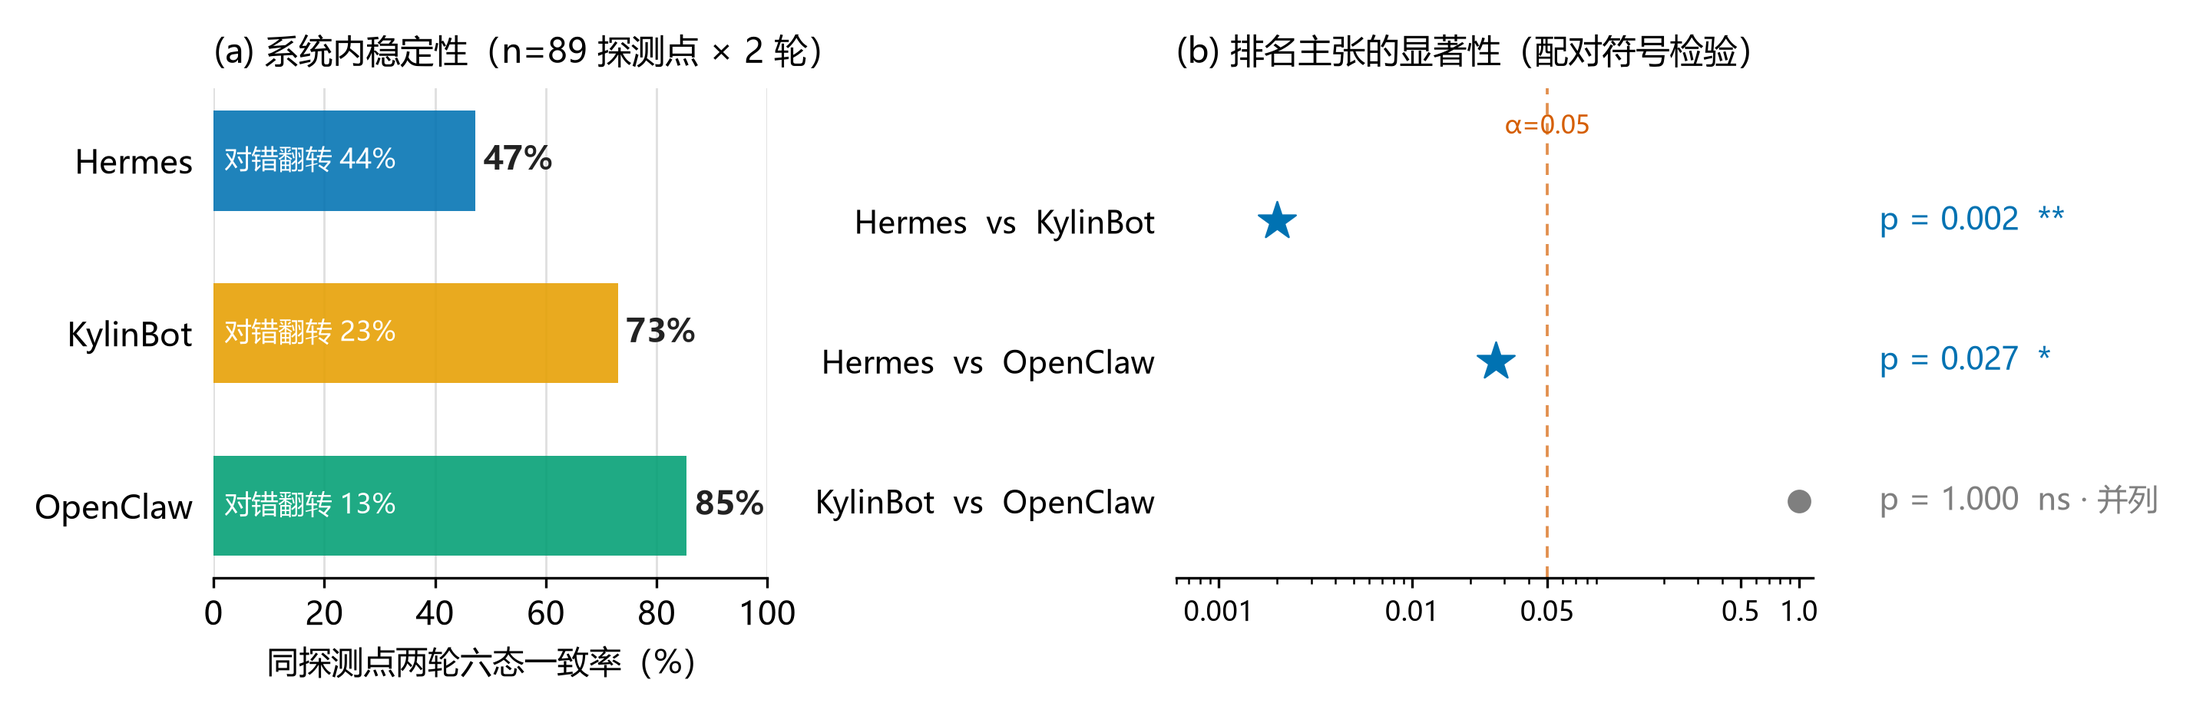
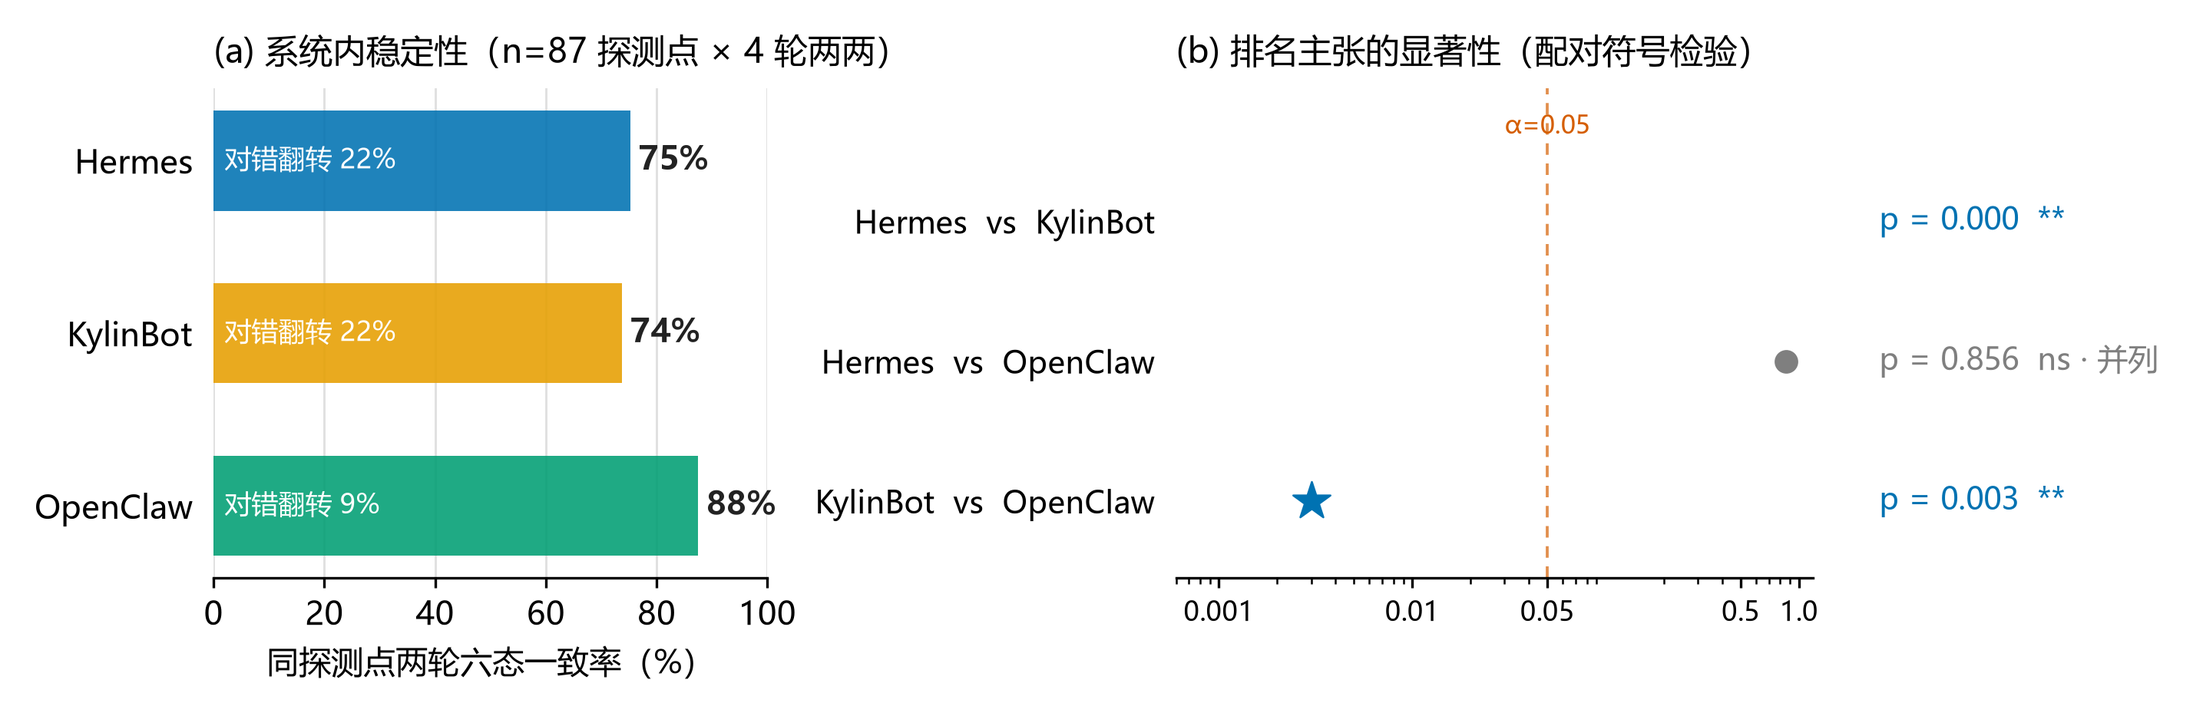
feat(终榜v3): r3/r4 扩轮 n=4 + chains 并入口径
- r3/r4 马拉松 12 场（三家 × r3/r4 × full+chains，与 10-10 六场同栈
  dual 直判）；hermes-r3-full 判卷一次 DNS 挂死，事后从封存证据补判留痕
- full n=4：hermes 74.6±2.8 ≈ openclaw 72.5±4.9 > kylinbot 58.5±6.8；
  两对配对符号检验转显著（p<0.001 / 0.003），头部 p=0.856 并列
  （功效：分开头部需 ≈36 轮）
- chains n=2 附表并入：40.0/40.0/25.0，hermes/openclaw 两轮逐题零翻转
- stats_uncertainty：四轮两两 6 对一致率、F 检验 d2:3→9（闭式解仍适用）、
  chains 子口径入口 [full|chains]、GBK 控制台 reconfigure 防 ⚠ 崩溃
- make_readme_figures：agg 源切 _agg-*-n4、图 2 n=4 数字、图 4 十二场、
  图 6 n=4 阈值与自适应 x 轴、打印清单补 radar-final-dual
- README 终榜/EN 摘要/口径速览、dataset-card §9、CHANGELOG 同步；
  7 图全部重画（零 LLM 可复现）

201 passed · ruff clean

diff --git a/scripts/stats_uncertainty.py b/scripts/stats_uncertainty.py
@@ -7,9 +7,9 @@
   ④ 判卷口径差：dual vs scripted 同证据分差（仪器方差上界之一）
   ⑤ 功效声明：按观测方差，把两台智能体分开需要几轮
 
-用法: uv run python scripts/stats_uncertainty.py [runs 根目录]
-输入: 三家 × 2 轮 dual 重判 run（verdicts.jsonl）+ scripted 备份
-      （verdicts.scripted.jsonl，缺了该表跳过）
+用法: uv run python scripts/stats_uncertainty.py [runs 根目录] [full|chains]
+输入: 三家 × 4 轮（full 口径）或 × 2 轮（chains 口径）dual 直判 run
+      （verdicts.jsonl）+ scripted 备份（verdicts.scripted.jsonl，缺了该表跳过）
 """
 
 from __future__ import annotations
@@ -19,11 +19,22 @@ import math
 import sys
 from pathlib import Path
 
-AGENTS = {
-    "hermes": ["20261010-073953-hermes", "20261010-135112-hermes"],
-    "kylinbot": ["20261010-163950-kylinbot", "20261010-181612-kylinbot"],
-    "openclaw": ["20261010-200117-openclaw", "20261010-215351-openclaw"],
+# full-45 口径四轮（10-10 两轮 + 10-11/12 r3/r4 两轮）；chains 口径两轮（r3/r4）。
+# AGENTS 别名保持指向 full——make_readme_figures 经 import 复用本表出图。
+FULL_AGENTS = {
+    "hermes": ["20261010-073953-hermes", "20261010-135112-hermes",
+               "20261011-073455-hermes", "20261011-103806-hermes"],
+    "kylinbot": ["20261010-163950-kylinbot", "20261010-181612-kylinbot",
+                 "20261011-131723-kylinbot", "20261011-145803-kylinbot"],
+    "openclaw": ["20261010-200117-openclaw", "20261010-215351-openclaw",
+                 "20261011-164757-openclaw", "20261011-183642-openclaw"],
 }
+CHAINS_AGENTS = {
+    "hermes": ["20261011-102221-hermes", "20261011-130417-hermes"],
+    "kylinbot": ["20261011-144945-kylinbot", "20261011-164015-kylinbot"],
+    "openclaw": ["20261011-182539-openclaw", "20261011-201110-openclaw"],
+}
+AGENTS = FULL_AGENTS
 # 维度族前缀（探测点 ID 的 family 段即 capability 族）
 FAMILY_CAP = {
     "persist": "persist", "recall": "recall", "update": "dynamic_update",
@@ -60,9 +71,9 @@ def sign_p(n: int, k: int) -> float:
 
 
 def f_sf(x: float, d1: int = 2, d2: int = 3) -> float:
-    """F(d1,d2) 上尾概率——区分度比值的显著性参考。本设计固定 3 家×2 轮，
-    df=(2,3)；d1=2 时正则化不完全 beta 有闭式解 (d2/(d1·x+d2))^(d2/2)
-    （对照 α=0.05 临界值 9.55、α=0.10 为 5.46）。换组数/轮数需改 beta 函数。"""
+    """F(d1,d2) 上尾概率——区分度比值的显著性参考。d1=2 时正则化不完全
+    beta 有闭式解 (d2/(d1·x+d2))^(d2/2)，对任意 d2 成立（对照 α=0.05 临界：
+    d2=3 → 9.55，d2=9 → 4.26）。调用方按轮数算 d2=Σ(n_i−1)。"""
     if d1 != 2:
         raise NotImplementedError("闭式解仅对 d1=2 成立")
     return (d2 / (d1 * x + d2)) ** (d2 / 2)
@@ -75,34 +86,50 @@ def overall(vs: dict[str, str]) -> float | None:
 
 
 def main() -> int:
+    # GBK 控制台跑批也别崩：不可编码字符降级为 ?（UTF-8 终端不受影响）
+    if hasattr(sys.stdout, "reconfigure"):
+        sys.stdout.reconfigure(errors="replace")
     root = Path(sys.argv[1] if len(sys.argv) > 1 else "runs")
-    runs = {a: [root / r for r in rs] for a, rs in AGENTS.items()}
+    mode = sys.argv[2] if len(sys.argv) > 2 else "full"
+    table = CHAINS_AGENTS if mode == "chains" else FULL_AGENTS
+    runs = {a: [root / r for r in rs] for a, rs in table.items()}
     missing = [str(p) for ps in runs.values() for p in ps if not (p / "verdicts.jsonl").exists()]
     if missing:
         print(f"缺 run: {missing}")
         return 2
     vd = {a: [load_verdicts(p / "verdicts.jsonl") for p in ps] for a, ps in runs.items()}
 
-    # ① 系统内随机性：同一探测点两轮一致率（六态严格一致 + 对错翻转计数）
-    # （自比无方向可言，不报 p；翻转数就是"问两遍答案变不变"的直接读数）
-    print("== ① 系统内稳定性（同探测点两轮，n=89）==")
-    for a, (r1, r2) in vd.items():
-        common = set(r1) & set(r2)
-        exact = sum(1 for p in common if r1[p] == r2[p])
-        b = [(binary(r1[p]), binary(r2[p])) for p in common]
-        pairs = [xy for xy in b if None not in xy]
-        n_flip = sum(1 for x, y in pairs if x != y)
-        print(f"  {a:<9} 六态一致 {exact}/{len(common)} = {exact/len(common):.1%}　"
-              f"对错翻转 {n_flip}/{len(pairs)}（{n_flip/len(pairs):.0%} 的题两轮答案对错变了）")
+    # ① 系统内随机性：同一探测点轮间两两一致率（六态严格一致 + 对错翻转）
+    # （自比无方向可言，不报 p；翻转率就是"问两遍答案变不变"的直接读数。
+    #   n=2 一对即全量；n≥3 报两两组合的 min–max 与均值）
+    n_r = len(next(iter(vd.values())))
+    n_pair = n_r * (n_r - 1) // 2
+    print(f"== ① 系统内稳定性（同探测点轮间两两，{n_r} 轮 {n_pair} 对）==")
+    for a, rs in vd.items():
+        common = set.intersection(*(set(r) for r in rs))
+        agrees: list[float] = []
+        flips: list[float] = []
+        for i in range(n_r):
+            for j in range(i + 1, n_r):
+                r1, r2 = rs[i], rs[j]
+                exact = sum(1 for p in common if r1[p] == r2[p])
+                b = [xy for xy in ((binary(r1[p]), binary(r2[p])) for p in common)
+                     if None not in xy]
+                agrees.append(exact / len(common))
+                flips.append(sum(1 for x, y in b if x != y) / len(b))
+        print(f"  {a:<9} 六态一致 {min(agrees):.1%}–{max(agrees):.1%}"
+              f"（均值 {sum(agrees) / len(agrees):.1%}）　"
+              f"对错翻转 {min(flips):.0%}–{max(flips):.0%}"
+              f"（均值 {sum(flips) / len(flips):.0%}）")
 
-    # ② 成对符号检验：合并两轮，方向票 = 一家对该题对、另一家错
-    print("== ② 排名检验（两轮合并，方向票进检验）==")
+    # ② 成对符号检验：各轮同位配对合并，方向票 = 一家对该题对、另一家错
+    print("== ② 排名检验（各轮合并，方向票进检验）==")
     names = list(vd)
     for i in range(len(names)):
         for j in range(i + 1, len(names)):
             a, b = names[i], names[j]
             to_b = to_a = 0
-            for ra, rb in zip(vd[a], vd[b], strict=True):   # 两轮，家内轮数一致
+            for ra, rb in zip(vd[a], vd[b], strict=True):   # 逐轮同位配对，家内轮数一致
                 for p in set(ra) & set(rb):
                     x, y = binary(ra[p]), binary(rb[p])
                     if x is None or y is None or x == y:
@@ -118,7 +145,7 @@ def main() -> int:
             print(f"  {a} vs {b}: 方向票 {to_a}+{to_b}={n}，p={p:.3f}，{verdict}")
 
     # ③ 维度区分度：组间方差（智能体均值间）/ 组内方差（同智能体轮间）
-    print("== ③ 维度区分度（组间/组内方差比，描述性，n=2/组）==")
+    print(f"== ③ 维度区分度（组间/组内方差比，描述性，n={n_r}/组）==")
     for fam, cap in FAMILY_CAP.items():
         per_agent: dict[str, list[float]] = {}
         for a in vd:
@@ -139,24 +166,25 @@ def main() -> int:
         within = sum(sum((x - sum(v) / len(v)) ** 2 for x in v) / (len(v) - 1)
                      for v in per_agent.values()) / len(per_agent)
         ratio = between / within if within > 0 else float("inf")
+        d2 = sum(len(v) - 1 for v in per_agent.values())
         print(f"  {CAP_ZH[cap]:<5}（{fam:<11}） 均值 "
               + " ".join(f"{a}:{m:.0%}" for a, m in zip(per_agent, means, strict=True))
-              + f"　组间/组内 = {ratio:.1f}（F 检验 p={f_sf(ratio):.3f}）"
+              + f"　组间/组内 = {ratio:.1f}（F(2,{d2}) p={f_sf(ratio, d2=d2):.3f}）"
               + ("　⚠ 不区分" if ratio < 1 else ""))
 
     # ④ 判卷口径差 + 环境噪声
     print("== ④ 判卷口径差（同证据 dual vs scripted）与环境噪声（invalid 率）==")
     for _a, ps in runs.items():
         for p in ps:
-            d_over = overall(load_verdicts(p / "verdicts.jsonl"))
+            cur = load_verdicts(p / "verdicts.jsonl")
+            d_over = overall(cur)
             line = f"  {p.name:<28} dual {d_over:.1%}"
             s_path = p / "verdicts.scripted.jsonl"
             if s_path.exists():
                 s_over = overall(load_verdicts(s_path))
                 line += f"　scripted {s_over:.1%}（口径差 {(d_over - s_over) * 100:+.1f} 分）"
-            n_inv = sum(1 for v in load_verdicts(p / "verdicts.jsonl").values()
-                        if v == "invalid_run")
-            line += f"　invalid {n_inv}/89"
+            n_inv = sum(1 for v in cur.values() if v == "invalid_run")
+            line += f"　invalid {n_inv}/{len(cur)}"
             print(line)
 
     # ⑤ 功效声明：检测两台差距 Δ（α=0.05、power 80% → z≈2.8）所需轮数

diff --git a/scripts/make_readme_figures.py b/scripts/make_readme_figures.py
@@ -72,13 +72,13 @@ def build_caliber(mod) -> tuple[str, str]:
                f"（2026-{date_str}）")
     return ver_str, caliber
 
-# stats_uncertainty.py 2026-10-08 输出（同源可复算）
-AGREE = {"hermes": 47.2, "kylinbot": 73.0, "openclaw": 85.4}   # 六态一致率 %
-FLIP = {"hermes": 44, "kylinbot": 23, "openclaw": 13}          # 对错翻转 %
+# stats_uncertainty.py 2026-10-12 n=4 输出（同源可复算）
+AGREE = {"hermes": 75.3, "kylinbot": 73.8, "openclaw": 87.5}   # 六态一致率均值 %
+FLIP = {"hermes": 22, "kylinbot": 22, "openclaw": 9}           # 对错翻转均值 %
 PAIRS = [  # (对比, p, 显著?)
-    ("Hermes  vs  KylinBot", 0.002, True),
-    ("Hermes  vs  OpenClaw", 0.027, True),
-    ("KylinBot  vs  OpenClaw", 1.000, False),
+    ("Hermes  vs  KylinBot", 0.000, True),
+    ("Hermes  vs  OpenClaw", 0.856, False),
+    ("KylinBot  vs  OpenClaw", 0.003, True),
 ]
 
 
@@ -130,7 +130,7 @@ VERDICT_COLOR = {
 def load_caps() -> dict[str, dict[str, dict]]:
     out: dict[str, dict[str, dict]] = {}
     for a in AGENTS:
-        d = json.loads((RUNS / f"_agg-{a}-dual" / "aggregate.json")
+        d = json.loads((RUNS / f"_agg-{a}-n4" / "aggregate.json")
                        .read_text(encoding="utf-8"))
         out[a] = {c: d["capabilities"][c] for c in CAP_ORDER if c in d["capabilities"]}
     return out
@@ -138,7 +138,7 @@ def load_caps() -> dict[str, dict[str, dict]]:
 
 def fig1_six_dim_bars(caps: dict[str, dict[str, dict]], ver_str: str,
                       caliber: str) -> None:
-    """六维 mean±std 分组柱 + 各轮散点（n=2，散点=两轮实际值）。"""
+    """六维 mean±std 分组柱 + 各轮散点（n=4，白圈=四轮极值 min/max）。"""
     _setup_font()
     fig, ax = plt.subplots(figsize=(9.6, 4.0))
     dims = CAP_ORDER
@@ -157,7 +157,7 @@ def fig1_six_dim_bars(caps: dict[str, dict[str, dict]], ver_str: str,
                label=f"{ver_parts[a]}（{AGENT_LABEL[a]}）", zorder=2)
         ax.errorbar(pos, means, yerr=stds, fmt="none",
                     ecolor="#333333", elinewidth=1.1, capsize=2.5, zorder=4)
-        # 各轮实际值散点（n=2：min 与 max 即两轮）
+        # 各轮实际值散点（n=4：min/max 为四轮极值，均值棒 ±std）
         ax.scatter(pos, los, s=11, color="white", edgecolor=COLOR[a],
                    linewidth=0.9, zorder=5)
         ax.scatter(pos, his, s=11, color="white", edgecolor=COLOR[a],
@@ -199,7 +199,7 @@ def fig2_uncertainty() -> None:
     ax1.set_xlabel("同探测点两轮六态一致率（%）")
     ax1.xaxis.grid(True, color="0.88", linewidth=0.7, zorder=0)
     ax1.set_axisbelow(True)
-    ax1.set_title("(a) 系统内稳定性（n=89 探测点 × 2 轮）",
+    ax1.set_title("(a) 系统内稳定性（n=87 探测点 × 4 轮两两）",
                   fontsize=10.5, loc="left", pad=8)
     _publication(ax1)
     ax1.spines["left"].set_visible(False)
@@ -396,7 +396,7 @@ def fig3_pipeline_svg() -> None:
 
 
 def fig4_verdict_mix(mod, caliber: str) -> None:
-    """图 4：六态判定构成（六场 run 100% 堆积条）——"记错的样子"可视化。"""
+    """图 4：六态判定构成（十二场 run 100% 堆积条）——"记错的样子"可视化。"""
     from collections import Counter
 
     _setup_font()
@@ -407,7 +407,7 @@ def fig4_verdict_mix(mod, caliber: str) -> None:
             rows.append((f"{AGENT_LABEL[a]} r{i}", Counter(vs.values())))
     states = [k for k in VERDICT_ZH if any(c.get(k) for _, c in rows)]
 
-    fig, ax = plt.subplots(figsize=(9.6, 3.4))
+    fig, ax = plt.subplots(figsize=(9.6, 4.8))
     ys = np.arange(len(rows))[::-1]
     totals = np.array([sum(c.values()) for _, c in rows], dtype=float)
     left = np.zeros(len(rows))
@@ -505,9 +505,9 @@ def fig5_dual_vs_scripted(mod) -> None:
 
 
 def fig6_separation(mod) -> None:
-    """图 6：维度区分度棒棒糖（组间/组内方差比，n=2/组）。
+    """图 6：维度区分度棒棒糖（组间/组内方差比，n=4/组）。
 
-    比值 <1 = 两轮轮间方差盖过智能体间差异，该维在 n=2 下不构成区分；
+    比值 <1 = 轮间方差盖过智能体间差异，该维不构成区分；
     ≥1 才是"这个维真的在分开不同系统"。
     """
     _setup_font()
@@ -546,7 +546,7 @@ def fig6_separation(mod) -> None:
                 va="center", color=color)
     ax.axvline(1.0, color="#D55E00", linewidth=0.9, linestyle=(0, (4, 3)),
                alpha=0.8)
-    ax.text(1.0, len(rows) - 0.28, " n=2 可区分阈值", fontsize=8,
+    ax.text(1.0, len(rows) - 0.28, " n=4 可区分阈值", fontsize=8,
             color="#D55E00", va="bottom")
     ax.set_yticks(ys)
     ax.set_yticklabels([r[0] for r in rows], fontsize=9.5)
@@ -557,7 +557,7 @@ def fig6_separation(mod) -> None:
     ax.set_xlabel("维度区分度 = 组间方差（智能体间）/ 组内方差（同智能体轮间）")
     ax.xaxis.grid(True, color="0.9", linewidth=0.7, zorder=0)
     ax.set_axisbelow(True)
-    ax.set_title("哪些维在 n=2 下真的分开了系统（灰=尚不区分）",
+    ax.set_title("哪些维在 n=4 下真的分开了系统（灰=尚不区分）",
                  fontsize=10.5, loc="left", pad=8)
     _publication(ax)
     ax.spines["left"].set_visible(False)
@@ -574,7 +574,7 @@ def fig0_final_radar(ver_str: str, caliber: str) -> None:
 
     scores: dict[str, dict[str, float]] = {}
     for a in AGENTS:
-        d = json.loads((RUNS / f"_agg-{a}-dual" / "aggregate.json")
+        d = json.loads((RUNS / f"_agg-{a}-n4" / "aggregate.json")
                        .read_text(encoding="utf-8"))
         ver_parts = dict(zip(AGENTS, [v.strip() for v in ver_str.split("/")],
                               strict=True))
@@ -597,9 +597,9 @@ def main() -> int:
     fig4_verdict_mix(mod, caliber)
     fig5_dual_vs_scripted(mod)
     fig6_separation(mod)
-    for name in ["fig-six-dim.png", "fig-uncertainty.png", "pipeline-dark.svg",
-                 "fig-verdict-mix.png", "fig-dual-vs-scripted.png",
-                 "fig-separation.png"]:
+    for name in ["radar-final-dual.png", "fig-six-dim.png", "fig-uncertainty.png",
+                 "pipeline-dark.svg", "fig-verdict-mix.png",
+                 "fig-dual-vs-scripted.png", "fig-separation.png"]:
         p = OUT / name
         print(f"{name}: {p.stat().st_size // 1024} KB")
     return 0

diff --git a/docs/dataset-card.md b/docs/dataset-card.md
@@ -1,6 +1,6 @@
 # 数据集说明卡（Dataset Card）· MemHall 用例库 v0.1
 
-> owner：B · 更新：2026-10-05（R46 对账重写：全部数字以 lint 输出为准；gen/heldout 重生成）
+> owner：B · 更新：2026-10-12（§9 刷新为 n=4 十二场口径；2026-10-05 R46 对账重写全文，全部数字以 lint 输出为准）
 > 说明卡随题库发布，数据设计的每个主张都能在此对账（design.md §4.6）。
 > **2026-10-04 口径 v2**（docs/review-tasks.md）：探测点分 score/diagnostic 两层——存储态断言（memory.*）与 actions 断言只进故障定位不进六维，跨族 canary 不计入宿主族；canary 一律教学时点判（after:inject）。旧 run 可用 `memhall report` 按新口径重渲染（快照优先，role 按断言推断对旧快照同样适用）。
 
@@ -93,29 +93,37 @@ reuse           |     1      |  1   |    1     |  1   |       1       |    1
 - ~~待统一项~~ → 已收敛（2026-10-08）：update-001 旧值→wrong_reuse，与 R45/temporal-002/生成器三方对齐
 
 
-## 9. 功效与不确定度（测量口径，2026-10-11 六场重测实测）
+## 9. 功效与不确定度（测量口径，2026-10-12 十二场 n=4 实测）
 
-复现命令：`uv run python scripts/stats_uncertainty.py`（零 LLM 调用，读六场 dual 直判 verdicts；
-重测背景与评测器三修复见 README 终榜演进注记，初版 10-08 数字留档于 git 历史）。
+复现命令：`uv run python scripts/stats_uncertainty.py [runs 根目录] [full|chains]`（零 LLM 调用，
+读三家 × 4 轮 full + 三家 × 2 轮 chains 的 dual 直判 verdicts；重测背景与评测器三修复见 README
+终榜演进注记，n=2 版（10-11）与初版（10-08）数字留档于 git 历史）。
 
-**① 系统内稳定性（同一探测点两轮一致率）**——被测系统的随机性是属性不是噪声：
-hermes 六态一致 71.3%（25% 的题两轮对错翻转）、kylinbot 80.5%（14% 翻转）、openclaw 80.5%（16% 翻转）。
+**① 系统内稳定性（同一探测点轮间两两一致率，n=4 共 6 对）**——被测系统的随机性是属性不是噪声：
+openclaw 六态一致均值 87.5%（对错翻转均值 9%）、hermes 75.3%（22%）、kylinbot 73.8%（22%）；
+openclaw 轮间最稳（最高对 93.1%），hermes 最低对 71.3% 与其大方差画像一致。
 
-**② 排名主张（两轮合并的探测点配对符号检验）**：三对均**不显著**——hermes vs kylinbot
-方向票 31:21 偏 hermes（p=0.212）、hermes vs openclaw 33:32（p=1.000）、kylinbot vs openclaw
-35:47 偏 openclaw（p=0.224）。头部按口径并列呈现，不硬排名次。
+**② 排名主张（各轮同位配对的探测点符号检验）**：n=4 下**两对转显著**——hermes vs kylinbot
+方向票 74:35 偏 hermes（p<0.001）、kylinbot vs openclaw 66:106 偏 openclaw（p=0.003）；
+hermes vs openclaw 62:59（p=0.856）不显著，头部并列呈现。这是本基准第一次在合理轮数内
+给出统计显著的系统分层。
 
-**③ 维度区分度（组间/组内方差比，描述性）**：六个主维比值全部 ≥1 但分层明显——边界识别
-12.0（n=2 下唯一过 F 检验，p=0.037）、任务复用 5.2（p=0.105）、长期保持 3.6（p=0.160）、
-动态更新 2.1、相近区分 1.6、记忆调用 1.2；拨钟题（temporal）0.8 是唯一不区分的族。
-维度级结论按此分层采信；雷达图已加构念注脚（R53）。
+**③ 维度区分度（组间/组内方差比，F(2,9)）**：边界识别 9.9（p=0.005）唯一过 α=0.05——
+三家该维均值 83%/75%/40% 的分化真实且稳定；长期保持 3.5（p=0.074）、动态更新 3.3（p=0.082）、
+相近区分 3.3（p=0.085）落在 α=0.10 边缘；记忆调用 0.7、任务复用 0.6、拨钟题 temporal 0.4
+在 n=4 下仍不区分。维度级结论按此分层采信；雷达图已加构念注脚（R53）。
 
-**④ 判卷口径差与环境噪声**：现役六场一律 dual 直判（无脚本侧）；口径差引用初版 run 的
+**④ 判卷口径差与环境噪声**：现役十二场一律 dual 直判（无脚本侧）；口径差引用初版 run 的
 R25 留档复核——run 级 dual 低 0.8–19.0 分、六轮方向一致，但维度级非单向：记忆调用六轮
 全中 −16～−39 分、相近区分/拨钟单轮最高 −45/−50 分，边界识别/任务复用反向为正
 （最高 +12/+27 分）——脚本判不了的题被剔出分母，幸存者偏差低估与高估并存。
-invalid 率 4–8/89（工具侧错误不计分母，不冒充答错）。
+invalid 率 4–8/87（工具侧错误不计分母，不冒充答错）。
 
-**⑤ 功效声明（轮级总分、双侧 α=0.05、power 80%）**：hermes vs kylinbot 差 7.8 分
-（σ 2.5%/0.5%）需 ≈1 轮、kylinbot vs openclaw 差 6.5 分（σ 0.5%/2.8%）需 ≈2 轮、
-hermes vs openclaw 差 1.3 分需 ≈63 轮（合理轮数内不可分，并列呈现）——分差与轮数的取舍摆在明面。
+**⑤ 功效声明（轮级总分、双侧 α=0.05、power 80%）**：对 kylinbot 的 24–27 分差距
+（σ 3.8–6.4%）≈1 轮即可分开；头部 hermes vs openclaw 2.5 分差距（σ 3.8%/3.9%）需 ≈36 轮
+（合理轮数内不可分，并列呈现）——分差与轮数的取舍摆在明面。
+
+**chains 附注（n=2）**：任务链口径（13 探测点、10 计分、persist/reuse 两维）hermes 40.0% 与
+openclaw 40.0% 两轮**逐题零翻转**（六态一致 100%）、kylinbot 25.0%±7.1（一致 84.6%）；链族
+组内方差为 0（F 比值 inf）——链上行为高度可复现，但 10 个计分点撑不起跨家检验（方向票
+各 4 票，p=0.125）。

diff --git a/CHANGELOG.md b/CHANGELOG.md
@@ -6,6 +6,16 @@
 
 ## [未发布]
 
+- **终榜 v3：扩轮至 n=4 + chains 并入口径（2026-10-12）**：r3/r4 马拉松 12 场
+  （三家 × r3/r4 × full+chains，与 10-10 六场同栈；hermes-r3-full 一轮判卷遇 DNS
+  挂死，事后从封存证据补判，全程留痕）。**full 45 × 4 轮**：hermes 74.6%±2.8 ≈
+  openclaw 72.5%±4.9 > kylinbot 58.5%±6.8——**n=4 下两对配对符号检验转显著**
+  （hermes vs kylinbot p<0.001、kylinbot vs openclaw p=0.003），头部 p=0.856
+  并列（需 ≈36 轮才可分）；**chains 4 × 2 轮并入附表**（40.0/40.0/25.0，hermes/
+  openclaw 两轮逐题零翻转）。stats_uncertainty 升 n=4（一致率改四轮两两 6 对、
+  F 检验自由度 d2: 3→9 闭式解仍适用、新增 chains 子口径入口）；维度区分度
+  边界识别 9.9（p=0.005）仍唯一过 α=0.05。README 终榜/EN 摘要/口径速览、
+  dataset-card §9、七图全部同步刷新
 - **图 7（维度区分度）两处渲染缺陷修复**：x 轴定长 7.6 曾把 12.0 的边界识别切在
   图外（最强信号的点与数值均不可见）；未测族（chain，本轮 run 无探测点）曾按 inf
   画出一根无限长棒棒糖——现未测族跳过、x 轴随数据自适应。stats ③ 区分度同步输出
